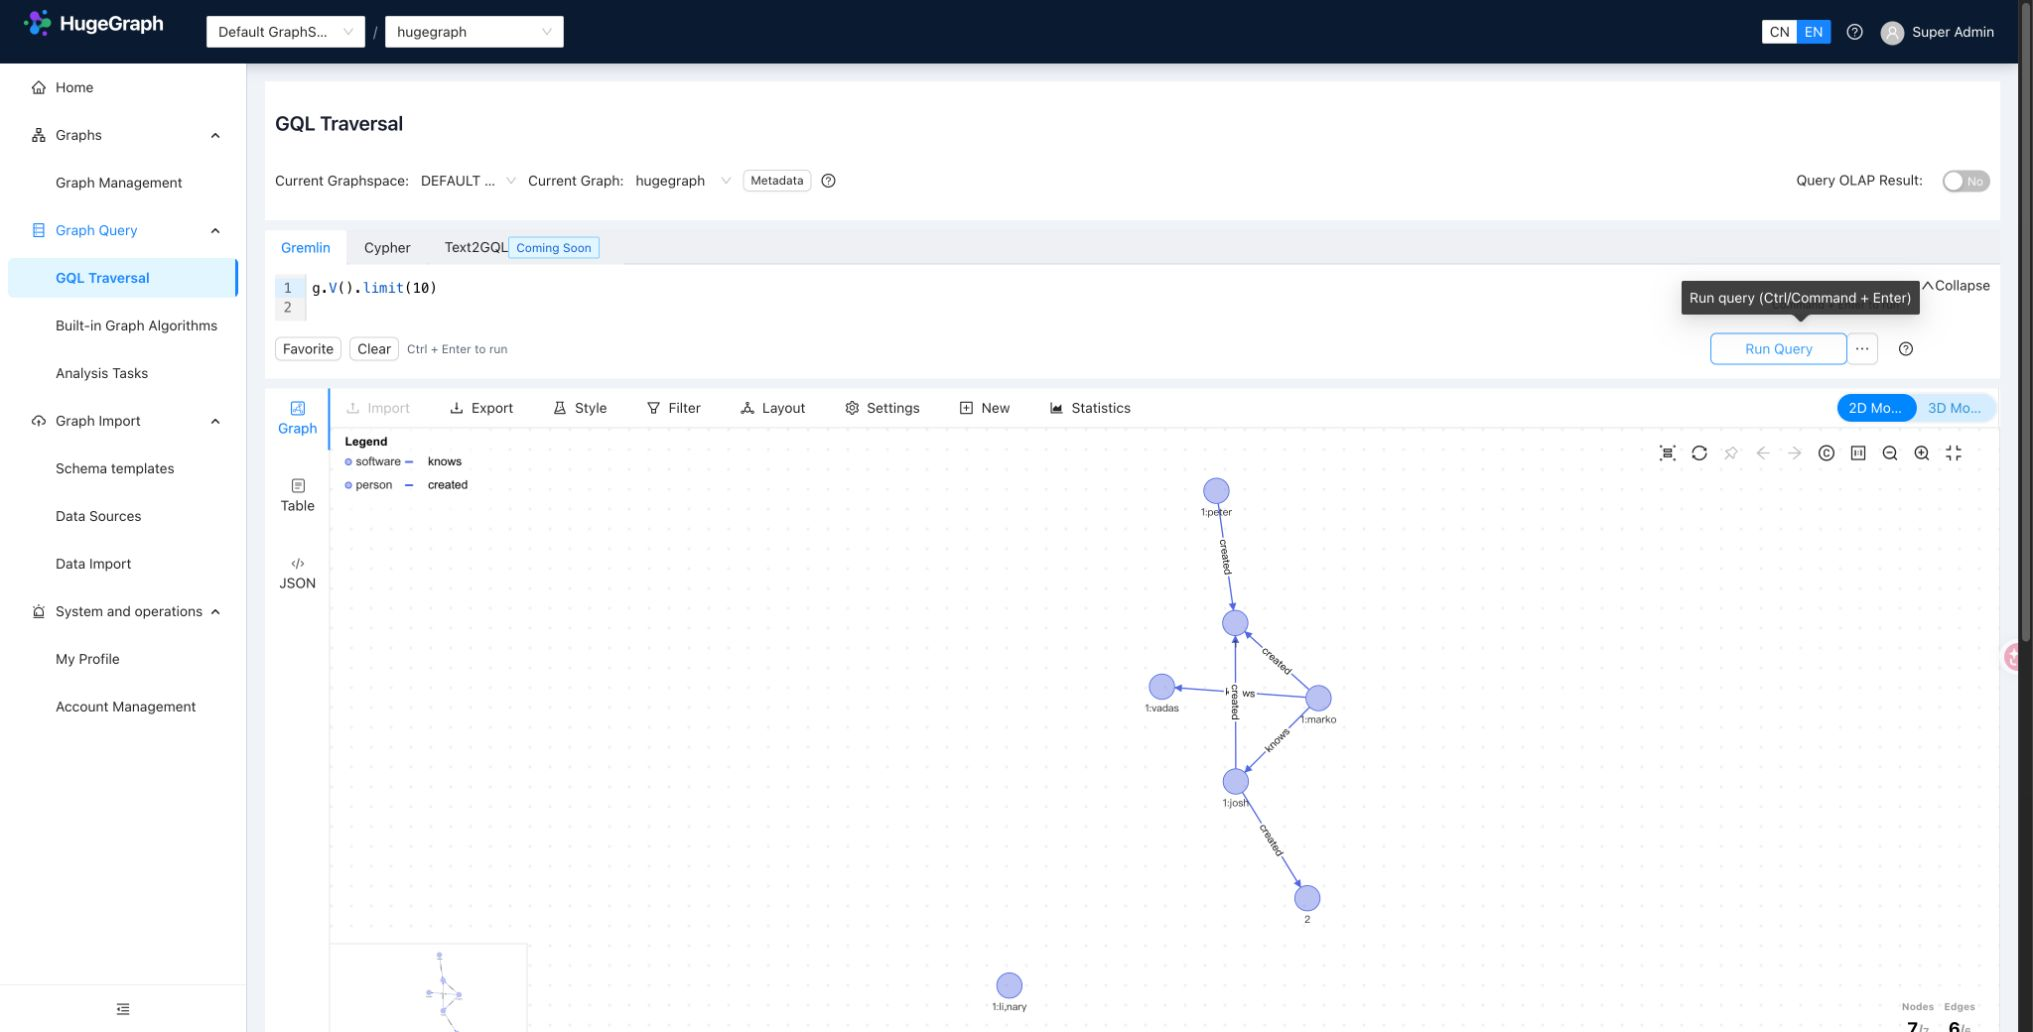
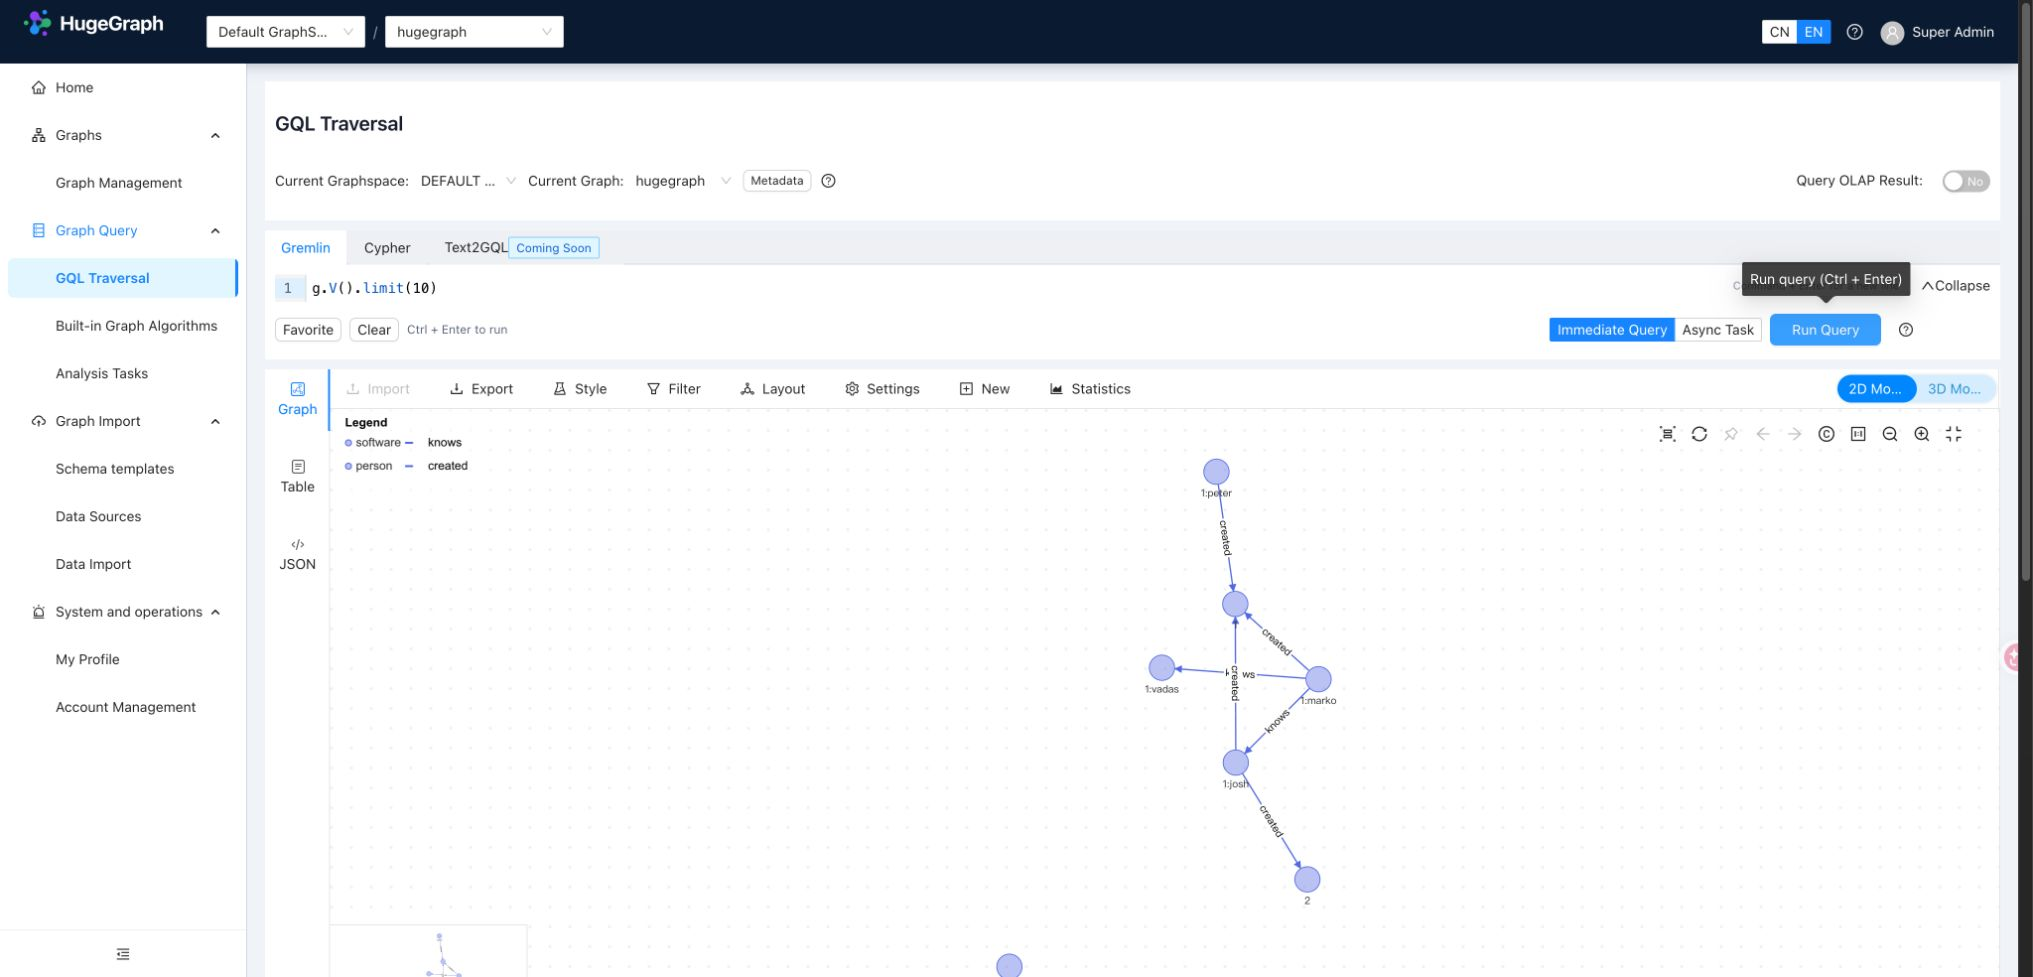
fix(hubble): refine query execution controls
- reserve Ctrl+Enter for query execution
- make Command+Enter insert an editor newline
- replace the action dropdown with an accessible mode switch
- keep query controls aligned at narrow widths
- refresh English PD UI evidence

diff --git a/hugegraph-hubble/hubble-fe/src/modules/analysis/QueryBar/ContentCommon/index.js b/hugegraph-hubble/hubble-fe/src/modules/analysis/QueryBar/ContentCommon/index.js
@@ -22,7 +22,7 @@
 
 import React, {useCallback, useState, useContext} from 'react';
 import {useTranslation} from 'react-i18next';
-import {Button, Tooltip, Dropdown, Popover, message, Space} from 'antd';
+import {Button, Tooltip, Popover, message, Radio, Space} from 'antd';
 import {UpOutlined, DownOutlined, QuestionCircleOutlined} from '@ant-design/icons';
 import {GREMLIN_EXECUTES_MODE} from '../../../../utils/constants';
 import GraphAnalysisContext from '../../../Context';
@@ -171,12 +171,7 @@ const ContentCommon = props => {
 
     const onSwitchExecuteMenu = useCallback(
         e => {
-            if (e.key === QUERY) {
-                onExecuteModeChange(QUERY);
-            }
-            else {
-                onExecuteModeChange(TASK);
-            }
+            onExecuteModeChange(e.target.value);
         },
         [onExecuteModeChange]
     );
@@ -194,7 +189,7 @@ const ContentCommon = props => {
         event => {
             const nativeEvent = event.nativeEvent || event;
             const isEditor = event.target.closest?.('.cm-editor');
-            if (event.key !== 'Enter' || (!event.metaKey && !event.ctrlKey)
+            if (event.key !== 'Enter' || !event.ctrlKey || event.metaKey
                 || nativeEvent.isComposing || !isEditor || isEmptyQuery || isExecuting) {
                 return;
             }
@@ -203,14 +198,6 @@ const ContentCommon = props => {
         },
         [isEmptyQuery, isExecuting, onExecution]
     );
-
-    const executeMenu = {
-        onClick: onSwitchExecuteMenu,
-        items: [
-            {label: t('analysis.query.execute_query'), key: QUERY},
-            {label: t('analysis.query.switch_async_task'), key: TASK},
-        ],
-    };
 
     return (
         <div className={tabClassName} onKeyDown={onQueryKeyDown}>
@@ -243,21 +230,38 @@ const ContentCommon = props => {
                         <span className={c.shortcutHint}>{shortcutHint}</span>
                     </div>
                     <div className={c.primaryActions}>
+                        <Radio.Group
+                            aria-label={t('analysis.query.execute_mode')}
+                            value={executeMode}
+                            onChange={onSwitchExecuteMenu}
+                            optionType='button'
+                            buttonStyle='solid'
+                            size='small'
+                            options={[
+                                {
+                                    label: t('analysis.query.execute_mode_immediate'),
+                                    value: QUERY,
+                                },
+                                {
+                                    label: t('analysis.query.execute_mode_async'),
+                                    value: TASK,
+                                },
+                            ]}
+                        />
                         <Tooltip
                             placement="top"
                             title={isEmptyQuery
                                 ? emptyDesc
                                 : t('analysis.query.execute_shortcut')}
                         >
-                            <Dropdown.Button
-                                menu={executeMenu}
+                            <Button
+                                type='primary'
                                 disabled={isEmptyQuery || isExecuting}
                                 onClick={onExecution}
-                                placement="topRight"
                                 title={t('analysis.query.execute_shortcut')}
                             >
                                 {isQueryMode ? t('analysis.query.execute_query') : t('analysis.query.execute_task')}
-                            </Dropdown.Button>
+                            </Button>
                         </Tooltip>
                         <Tooltip placement="top" title={queryDesc} className={c.questionCircleIcon}>
                             <QuestionCircleOutlined />

diff --git a/hugegraph-hubble/hubble-fe/src/modules/analysis/QueryBar/ContentCommon/index.test.js b/hugegraph-hubble/hubble-fe/src/modules/analysis/QueryBar/ContentCommon/index.test.js
@@ -25,8 +25,9 @@ jest.mock('react-i18next', () => ({
     useTranslation: () => ({t: key => ({
         'analysis.query.execute_query': 'Run Query',
         'analysis.query.execute_task': 'Run Task',
-        'analysis.query.switch_async_task': 'Switch to Async Task',
-        'analysis.query.execute_shortcut': 'Run Query (Ctrl/Command + Enter)',
+        'analysis.query.execute_mode_immediate': 'Immediate Query',
+        'analysis.query.execute_mode_async': 'Async Task',
+        'analysis.query.execute_shortcut': 'Run Query (Ctrl + Enter)',
     })[key] || key}),
 }));
 jest.mock('../../../../api/index', () => ({
@@ -66,17 +67,21 @@ const renderContent = overrides => {
     return props;
 };
 
-it('runs the active Gremlin or Cypher query once with Mod+Enter', () => {
+it('runs the active Gremlin or Cypher query only with Ctrl+Enter', () => {
     const props = renderContent({activeTab: 'Cypher'});
+    const editor = screen.getByLabelText('query editor');
 
-    fireEvent.keyDown(screen.getByLabelText('query editor'), {
+    fireEvent.keyDown(editor, {key: 'Enter', metaKey: true});
+    expect(props.onExecute).not.toHaveBeenCalled();
+
+    fireEvent.keyDown(editor, {
         key: 'Enter', ctrlKey: true,
     });
 
     expect(props.onExecute).toHaveBeenCalledTimes(1);
     expect(props.onExecute).toHaveBeenCalledWith('Cypher');
     expect(screen.getByRole('button', {name: /Run Query/})).toHaveAttribute(
-        'title', 'Run Query (Ctrl/Command + Enter)'
+        'title', 'Run Query (Ctrl + Enter)'
     );
 });
 
@@ -92,18 +97,19 @@ it('does not run for plain Enter, IME composition, or a pending request', () => 
     expect(screen.getByRole('button', {name: /Run Query/})).toBeDisabled();
 });
 
-it('offers async execution with explicit wording next to the primary action', async () => {
-    renderContent();
+it('switches explicitly between immediate query and async task modes', () => {
+    const props = renderContent();
 
-    fireEvent.mouseEnter(screen.getByRole('img', {name: 'ellipsis'}).closest('button'));
+    expect(screen.getByRole('radio', {name: 'Immediate Query'})).toBeChecked();
+    fireEvent.click(screen.getByRole('radio', {name: 'Async Task'}));
 
-    expect(await screen.findByText('Switch to Async Task')).toBeInTheDocument();
+    expect(props.onExecuteModeChange).toHaveBeenCalledWith('task');
 });
 
 it('keeps the keyboard shortcut visible beside the secondary actions', () => {
-    renderContent({shortcutHint: 'Ctrl / Command + Enter to run'});
+    renderContent({shortcutHint: 'Ctrl + Enter to run'});
 
-    expect(screen.getByText('Ctrl / Command + Enter to run')).toBeInTheDocument();
+    expect(screen.getByText('Ctrl + Enter to run')).toBeInTheDocument();
 });
 
 it('keeps favorite submission disabled until the name is backend-compatible', () => {

diff --git a/hugegraph-hubble/hubble-fe/src/modules/analysis/QueryBar/Home/index.test.js b/hugegraph-hubble/hubble-fe/src/modules/analysis/QueryBar/Home/index.test.js
@@ -23,6 +23,7 @@ jest.mock('../../../../components/CodeEditor', () => props => (
     <div
         data-testid={`editor-${props.lang}`}
         data-placeholder={props.placeholder}
+        data-meta-enter-newline={props.metaEnterNewline ? 'true' : 'false'}
     >
         editor
     </div>
@@ -49,7 +50,7 @@ jest.mock('react-i18next', () => ({
         'analysis.query.cypher_tab': 'Cypher',
         'analysis.query.cypher_placeholder': 'For example: MATCH (n) RETURN n LIMIT 10',
         'analysis.query.shortcut_hint_ctrl': 'Ctrl + Enter to run',
-        'analysis.query.shortcut_hint_command': 'Command + Enter to run',
+        'analysis.query.shortcut_hint_command': 'Command + Enter for a new line',
         'analysis.query.text2gql_tab': 'Natural language',
         'analysis.query.text2gql_title': 'Natural-language graph query',
         'analysis.query.text2gql_description': 'This preview is not connected.',
@@ -143,7 +144,10 @@ it('matches the editor placeholder to the active query language without promotio
     );
     expect(screen.queryByText(/safe example/i)).not.toBeInTheDocument();
     expect(screen.getByText('Ctrl + Enter to run')).toBeInTheDocument();
-    expect(screen.getByText('Command + Enter to run')).toBeInTheDocument();
+    expect(screen.getByText('Command + Enter for a new line')).toBeInTheDocument();
+    expect(screen.getByTestId('editor-gremlin')).toHaveAttribute(
+        'data-meta-enter-newline', 'true'
+    );
 
     fireEvent.click(screen.getByRole('tab', {name: 'Cypher'}));
     expect(screen.getByTestId('editor-cypher')).toHaveAttribute(

diff --git a/hugegraph-hubble/hubble-fe/src/components/CodeEditor/index.js b/hugegraph-hubble/hubble-fe/src/components/CodeEditor/index.js
@@ -33,6 +33,7 @@ const CodeEditor = ({
     readOnly = false,
     ariaLabel,
     minHeight,
+    metaEnterNewline = false,
 }) => {
     const {t} = useTranslation();
     const editor = useRef();
@@ -72,6 +73,19 @@ const CodeEditor = ({
                 syntax.language ?? [],
                 syntaxHighlighting(myHighlightStyle),
                 EditorView.editable.of(!readOnly),
+                metaEnterNewline && !readOnly
+                    ? EditorView.domEventHandlers({
+                        keydown: (event, view) => {
+                            if (event.key !== 'Enter' || !event.metaKey
+                                || event.ctrlKey || event.altKey || event.shiftKey
+                                || event.isComposing) {
+                                return false;
+                            }
+                            view.dispatch(view.state.replaceSelection('\n'));
+                            return true;
+                        },
+                    })
+                    : [],
                 ariaLabel ? EditorView.contentAttributes.of({
                     'aria-label': ariaLabel,
                 }) : [],
@@ -105,7 +119,8 @@ const CodeEditor = ({
         return () => {
             cm.current.destroy();
         };
-    }, [ariaLabel, lang, minHeight, onChange, placeholder, readOnly, t]);
+    }, [ariaLabel, lang, metaEnterNewline, minHeight, onChange, placeholder,
+        readOnly, t]);
 
     useEffect(() => {
         if (value !== null && cm.current.state.doc && value !== cm.current.state.doc.toString()) {

diff --git a/hugegraph-hubble/hubble-fe/src/modules/analysis/QueryBar/ContentCommon/index.module.scss b/hugegraph-hubble/hubble-fe/src/modules/analysis/QueryBar/ContentCommon/index.module.scss
@@ -47,6 +47,9 @@
 
             .primaryActions {
                 flex: 0 0 auto;
+                flex-wrap: wrap;
+                justify-content: flex-end;
+                gap: 8px;
                 margin-left: auto;
             }
 
@@ -64,12 +67,8 @@
                 white-space: nowrap;
             }
 
-            :global(.ant-dropdown-button) {
-                min-width: 180px;
-            }
-
-            :global(.ant-dropdown-button > .ant-btn:first-child) {
-                min-width: 138px;
+            .primaryActions > :global(.ant-btn) {
+                min-width: 112px;
             }
         }
     }
@@ -79,6 +78,12 @@
         margin-left: 8px;
         cursor: pointer;
         user-select: none;
+    }
+}
+
+@media (max-width: 900px) {
+    .tabContent .leftHeader .actionBar .primaryActions {
+        width: 100%;
     }
 }
 

diff --git a/hugegraph-hubble/hubble-fe/src/modules/analysis/QueryBar/Home/index.js b/hugegraph-hubble/hubble-fe/src/modules/analysis/QueryBar/Home/index.js
@@ -88,6 +88,7 @@ const QueryBar = props => {
                             value={codeEditorContent}
                             onChange={handleCodeEditorChange}
                             lang={'gremlin'}
+                            metaEnterNewline
                             placeholder={t('analysis.query.gremlin_placeholder')}
                         />
                         <span className={c.editorShortcutHint}>
@@ -117,6 +118,7 @@ const QueryBar = props => {
                             value={codeEditorContent}
                             onChange={handleCodeEditorChange}
                             lang={'cypher'}
+                            metaEnterNewline
                             placeholder={t('analysis.query.cypher_placeholder')}
                         />
                         <span className={c.editorShortcutHint}>
